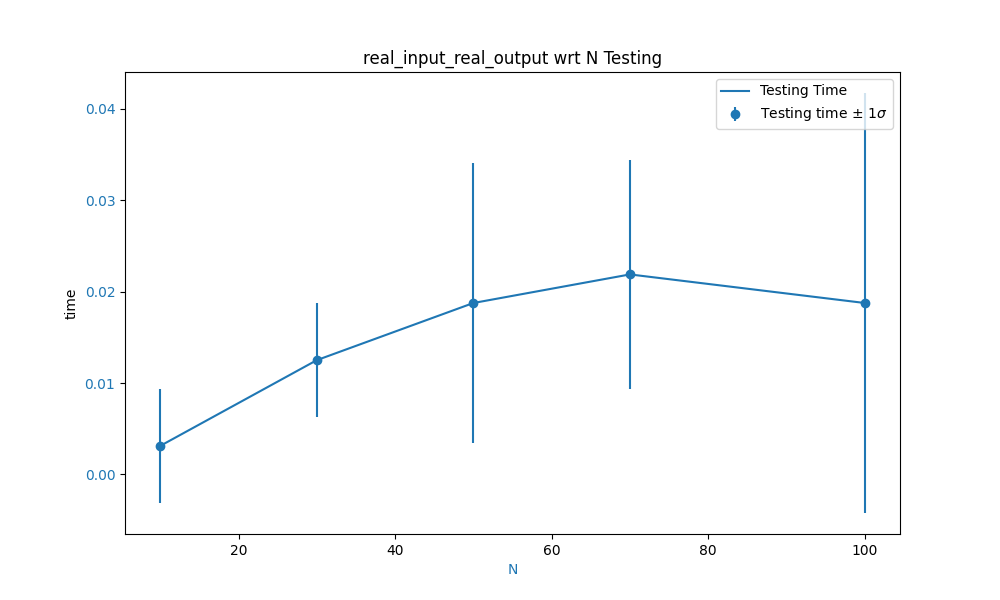
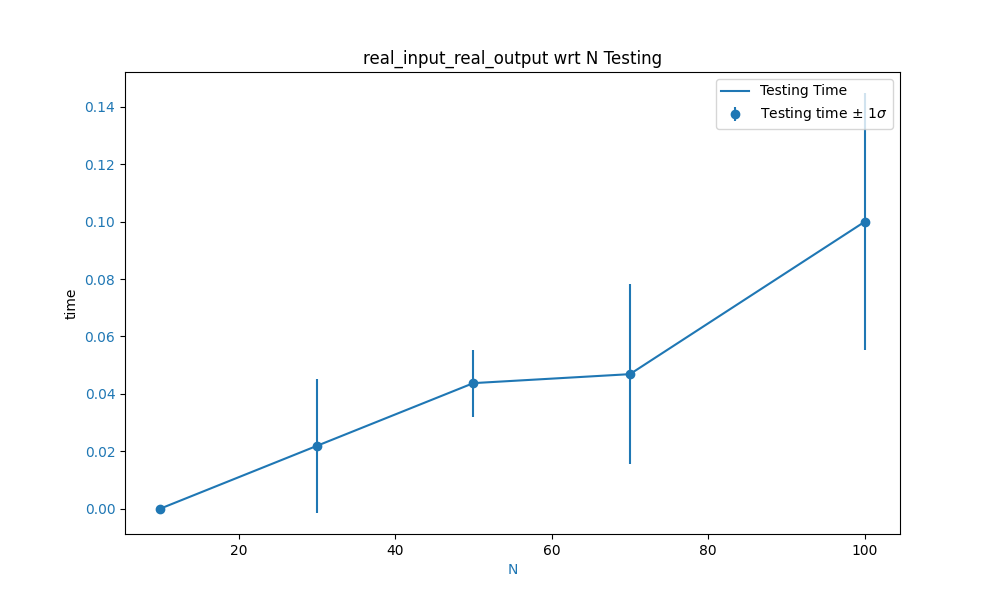
minor change

diff --git a/experiments.py b/experiments.py
@@ -7,7 +7,7 @@ from metrics import *
 from tqdm import tqdm
 
 np.random.seed(42)
-num_average_time = 100  # Number of times to run each experiment to calculate the average values
+num_average_time = 5  # Number of times to run each experiment to calculate the average values
 
 # Train time should be O(N * (2 ^ d) * M)
 # Testing time should be O(d * N)
@@ -39,12 +39,12 @@ def get_data(type, N, M):
     else:
         raise ValueError("Invalid type")
 
-def get_time_real_input_real_output(N, M, type):
+def get_decision_tree_time(N, M, type):
     X, y = get_data(type, N, M)
     training_times = []
     testing_times = []
     for _ in tqdm(range(num_average_time)):
-        tree = DecisionTree(criterion='information_gain')
+        tree = DecisionTree(criterion='information_gain', max_depth=10)
         start = time.process_time()
         tree.fit(X, y)
         end = time.process_time()
@@ -131,10 +131,10 @@ def plot_graph(N_vals, M_vals, fn, type):
         
     plot_twin_axis_graph(M_vals, training_times, testing_times, training_time_stds, testing_time_stds, type + " wrt M", 'M')
     
-plot_graph(N_values, M_values, get_time_real_input_real_output, "real_input_real_output")
-plot_graph(N_values, M_values, get_time_real_input_real_output, "real_input_discrete_output")
-plot_graph(N_values, M_values, get_time_real_input_real_output, "discrete_input_real_output")
-plot_graph(N_values, M_values, get_time_real_input_real_output, "discrete_input_discrete_output")
+plot_graph(N_values, M_values, get_decision_tree_time, "real_input_real_output")
+# plot_graph(N_values, M_values, get_decision_tree_time, "real_input_discrete_output")
+# plot_graph(N_values, M_values, get_decision_tree_time, "discrete_input_real_output")
+# plot_graph(N_values, M_values, get_decision_tree_time, "discrete_input_discrete_output")
 # ...
 # Function to calculate average time (and std) taken by fit() and predict() for different N and P for 4 different cases of DTs
 # ...
